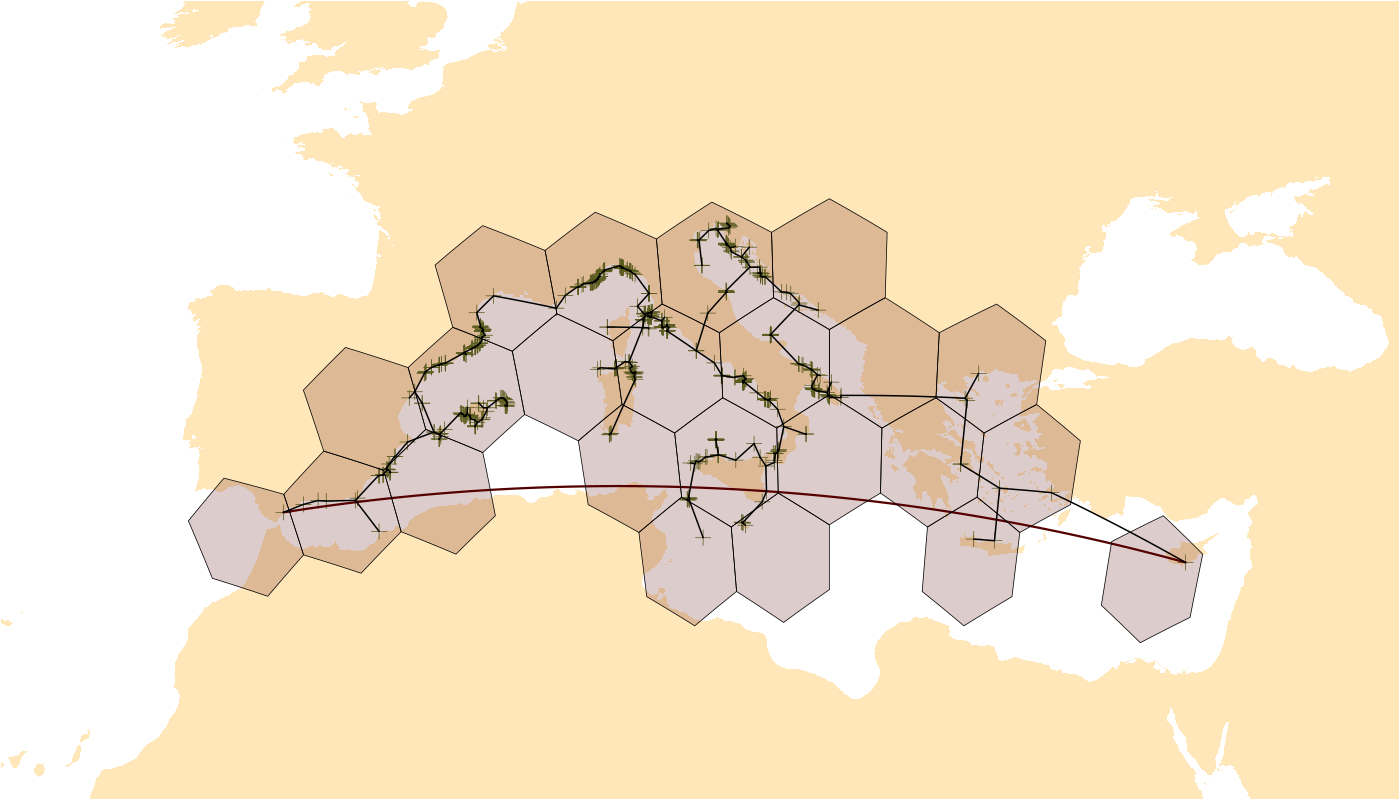
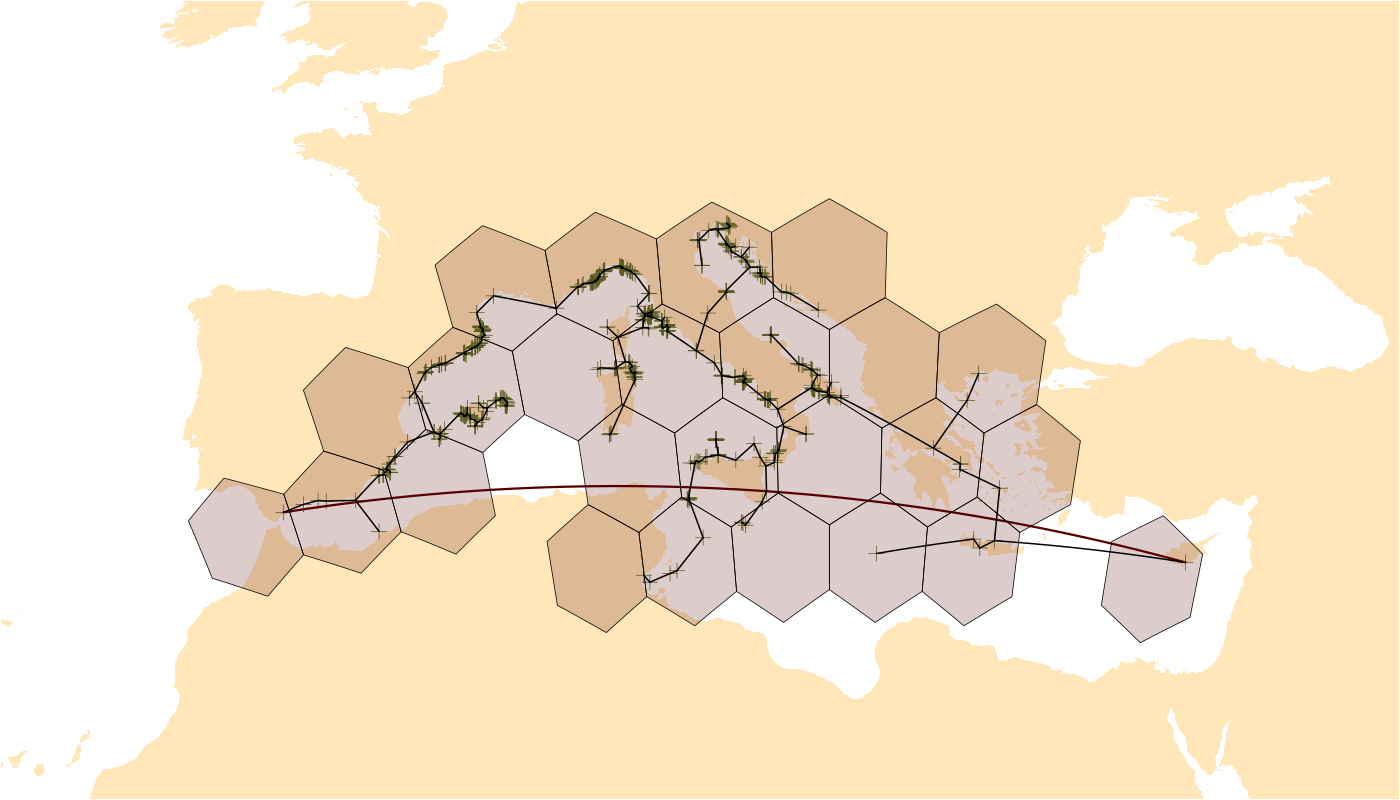
Adapting index to new built-in datag

diff --git a/index.md b/index.md
@@ -1,7 +1,7 @@
 
 # orange <img src="man/figures/logo.png" align="right" />
 
-[![](https://img.shields.io/badge/devel%20version-0.1.0--8-green.svg)](https://github.com/adamkocsis/orange)
+[![](https://img.shields.io/badge/devel%20version-0.1.0--12-green.svg)](https://github.com/adamkocsis/orange)
 [![](https://www.r-pkg.org/badges/version/orange?color=blue)](https://cran.r-project.org/package=orange)
 [![](http://cranlogs.r-pkg.org/badges/grand-total/orange?color=yellow)](https://cran.r-project.org/package=orange)
 [![CRAN
@@ -40,12 +40,15 @@ ne <- fetch("NaturalEarth", verbose=FALSE)
 
 # some example raw data (Pinna nobilis from OBIS)
 data(pinna)
+nobilis <- pinna[pinna$species=="Pinna nobilis", ]
+
 # only coords
-coords <- unique(pinna[, c("decimallongitude", "decimallatitude")]) 
+coords <- unique(nobilis[, c("decimalLongitude", "decimalLatitude")]) 
 # rename to standard
 colnames(coords) <- c("long", "lat") 
-# omit anomaly 
-coords <- coords[-855, ] 
+
+# omit issue localities
+coords <- coords[-c(127,155), ]
 
 # basic plot
 plot(ne$geometry, reset=FALSE, xlim=c(-15, 40), ylim=c(30, 50),
@@ -77,7 +80,7 @@ mgcd
 occ
 ```
 
-    ## [1] 23
+    ## [1] 25
 
 ------------------------------------------------------------------------
 